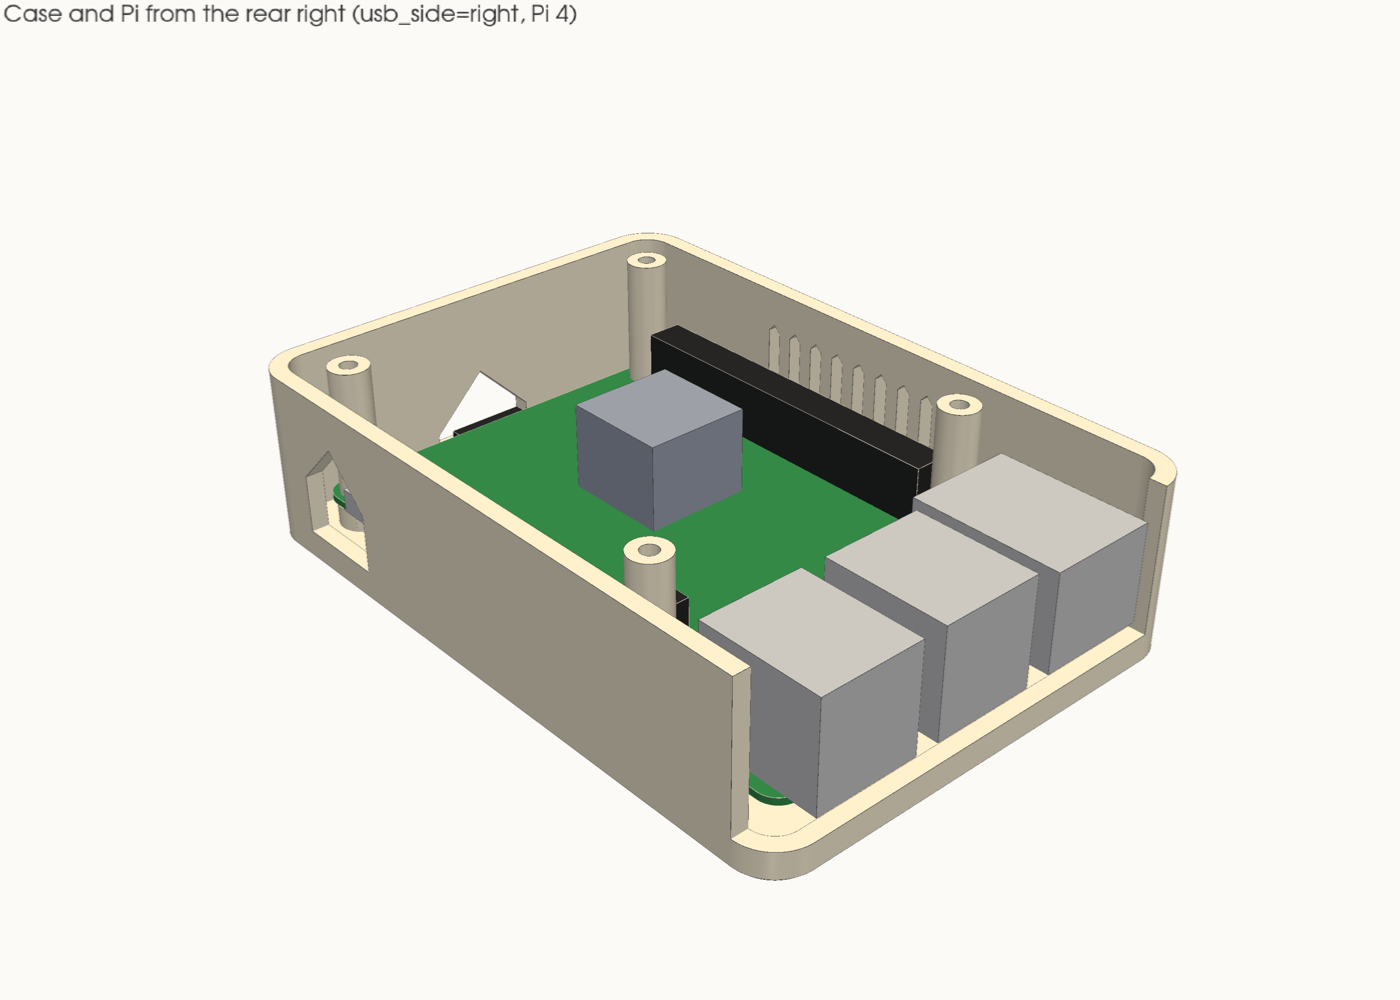
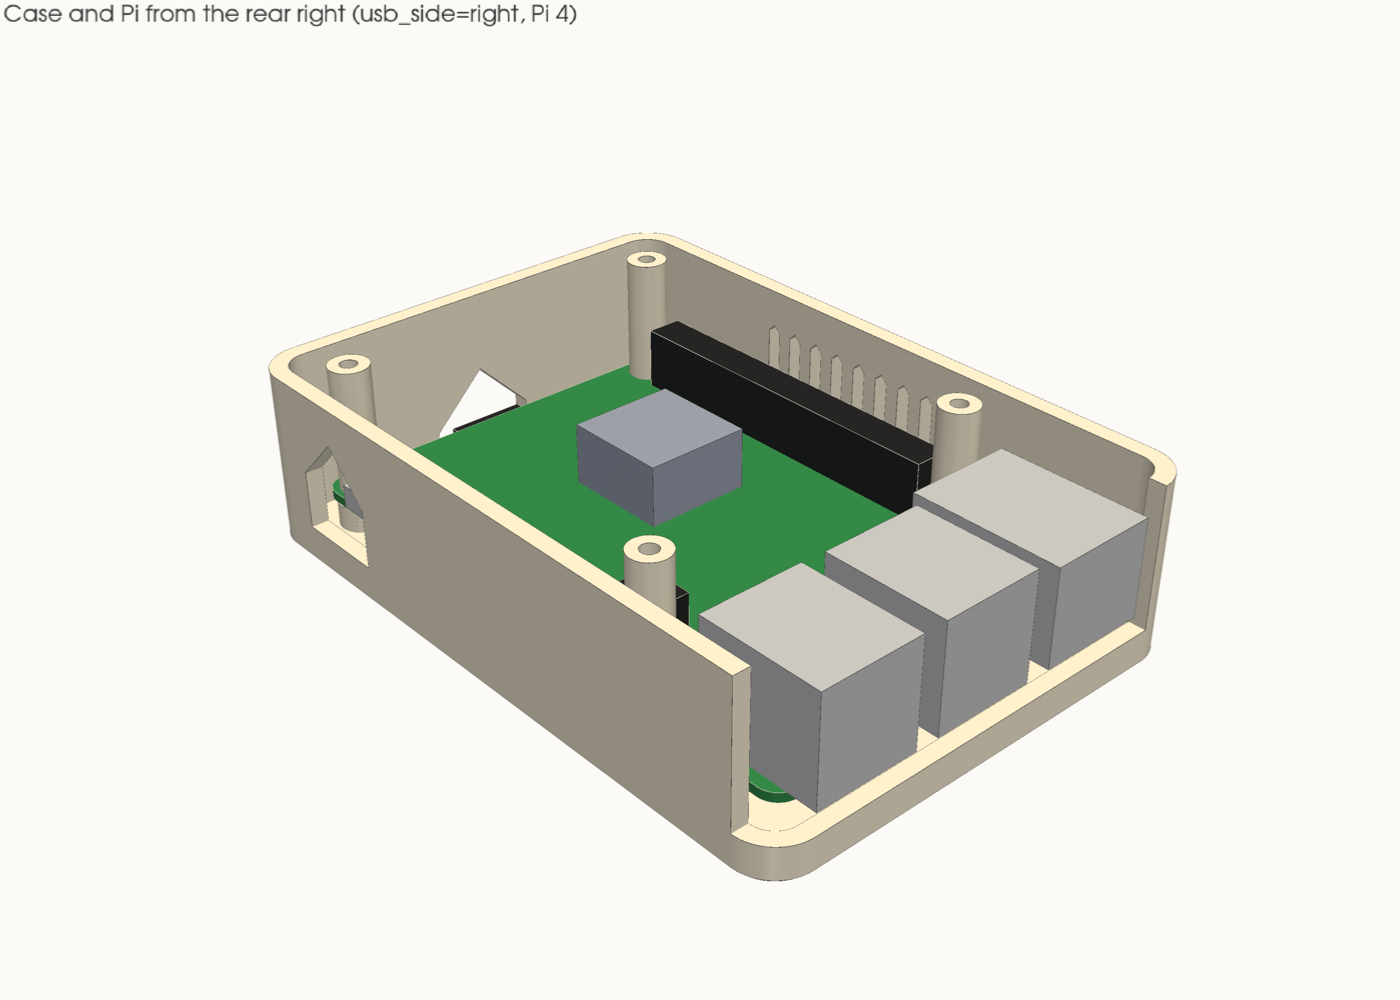
Kit enclosure: board modelled at 1.3 mm across 1.0–1.6; heatsink measured
Gabe read the board as just over 1 mm by eye; Pi 4s are 1.4–1.6. The
model takes 1.3 and the screw-stack checks cover ±0.3, so the exact
figure doesn't matter: the bosses go up to 4.0 mm and the screw reaches
1.0 mm past its nut, which keeps the worst cases inside the nut and the
floor. The heatsink stays below the GPIO pins (8.5 mm), 9 mm under the
lid; the USB-A stack (15 mm) is the tallest part.

diff --git a/kit/enclosure/kit.py b/kit/enclosure/kit.py
@@ -62,7 +62,8 @@ case_end_inset = 0.0   # the case's side face this far in from the Solo's usb_si
 # ── Raspberry Pi board (official Pi 4 mechanical drawing, RP-008343) ────────
 pi_board_l = 85.0
 pi_board_w = 56.0
-pi_board_t = 1.0  # measured 2026-10-07 (Pi 4s are specified 1.4–1.6: worth a second measurement)
+pi_board_t = 1.3  # read by eye as just over 1 mm (2026-10-07); Pi 4s are 1.4–1.6. Modelled mid-range,
+                  # and stack_tol below covers 1.0–1.6
 pi_corner_r = 3.0
 pi_hole_d = 2.7
 pi_hole_pitch_x = 58.0  # along the board's length
@@ -78,7 +79,7 @@ pi_sd_protrude = 3.0  # measured 2026-10-07 (drawing: 2.27)
 
 # Heights above the board's top face
 pi_tallest = 15.0  # measured 2026-10-07: the tallest part above the board (drawing: 16.0)
-pi_heatsink_top = est(12.0, "guess: an under-10 mm heatsink on the 2.4 mm SoC")
+pi_heatsink_top = 8.5  # measured 2026-10-07: the kit's small heatsink stays below the GPIO pins
 pi_underside = 1.5  # deepest part under the board (the SD socket), for the floor check
 
 # Ports, in the board's own frame: x along the length from the SD-card end,
@@ -102,8 +103,8 @@ floor_t = 2.4
 lid_t = 2.4               # a whole number of 0.2 mm layers
 layer_h = 0.2
 lid_seat_gap = 0.3        # at least this between the wall tops and the lid, so the lid clamps on the spacers
-boss_h = 3.5              # the Pi's bosses on the floor (2 mm under the board's deepest part)
-screw_past_nut = 0.8      # how far the screw tip should reach past the nut; sets the spacers' length
+boss_h = 4.0              # the Pi's bosses on the floor (2.5 mm under the board's deepest part)
+screw_past_nut = 1.0      # how far the screw tip should reach past the nut; sets the spacers' length
 spacer_d = 5.5            # their outside diameter (round, so no corner can turn toward the USB-C)
 case_margin_left = 3.0    # beside the GPIO header
 case_margin_front = 0.5   # beyond the SD card's tip
@@ -126,7 +127,7 @@ nut_roof = 1.2            # plastic between the nut and the board: the clamp bea
 pi_boss_d = 6.5
 boss_top_chamfer = 0.5    # keeps the boss's contact face (5.5 mm) inside the Pi's 6 mm mounting pad
 # Tolerances for the screw-stack checks in REPORT.md
-stack_tol = 0.5           # board ±0.15, printed spacer ±0.2, lid ±0.1, worst way round
+stack_tol = 0.6           # board ±0.3 (1.0–1.6), printed spacer ±0.2, lid ±0.1, worst way round
 screw_len_tol = 0.42      # ISO js15 on a 25 mm screw
 screw_tip_chamfer = 0.4   # the last bit of a screw has no full thread
 m2_head_d = 3.8           # an M2 flat head; it sinks (m2_csk_d - m2_head_d)/2 below the lid's top

diff --git a/kit/enclosure/REPORT.md b/kit/enclosure/REPORT.md
@@ -6,8 +6,8 @@ Generated by `kit.py` on 2026-10-07 for **usb_side = right**, **pi_model = 4**. 
 
 - **Clearances:** 39 checked, none under its minimum. The tightest against its minimum is *Pi placeholder → case (less the Pi's own bosses)* at 0.50 mm (needs 0.50).
 - **Printability:** no bridge over 20 mm, and no sloping overhang past 45°, across the case, lid, spacers and fit test.
-- **Unmeasured:** 13 dimensions are still published or guessed. Rows that depend on one say so; see *Measurements still needed*.
-- **Size:** the case is 66.30 × 95.40 mm, 27.30 mm to the lid's top and 29.70 mm to the fader caps. It sits on the Solo's right end on 5.7 mm of Dual Lock; about 84 mm tall all together.
+- **Unmeasured:** 12 dimensions are still published or guessed. Rows that depend on one say so; see *Measurements still needed*.
+- **Size:** the case is 66.30 × 95.40 mm, 27.60 mm to the lid's top and 30.00 mm to the fader caps. It sits on the Solo's right end on 5.7 mm of Dual Lock; about 84 mm tall all together.
 
 ![Isometric](renders/iso.png)
 
@@ -50,21 +50,21 @@ All in mm. A row passes at or above its minimum (0.50 unless it says otherwise).
 |---|---:|---:|---|---|
 | spacer tube → nearest part on the board (USB-C power) | 0.62 | 0.50 | ok (unmeasured) | unmeasured: Pi connector overhangs |
 | spacer tube → nearest wall | 3.25 | 0.50 | ok |  |
-| M2 × 25: full thread in the nut, worst case | 1.08 | 1.00 | ok | nut is 1.6; 1.0 is 2.5 threads, plenty for a lid clamp; nominal tip 0.80 past the nut |
+| M2 × 25: full thread in the nut, worst case | 1.18 | 1.00 | ok | nut is 1.6; 1.0 is 2.5 threads, plenty for a lid clamp; nominal tip 1.00 past the nut |
 | screw tip → bottom of its bore, worst case | 0.50 | 0.50 | ok |  |
-| floor left under the screw bore | 0.68 | 0.60 | ok | 3 layers |
+| floor left under the screw bore | 0.88 | 0.60 | ok | 3 layers |
 | nut slot roof (the clamp bears on it) | 1.20 | 1.00 | ok |  |
 | nut slot side walls | 1.15 | 0.80 | ok |  |
 | magnet pocket roof (inside the case) | 0.60 | 0.40 | ok |  |
-| magnet bump top → the board's underside parts | 0.70 | 0.50 | ok |  |
+| magnet bump top → the board's underside parts | 1.20 | 0.50 | ok |  |
 
 ### The Pi, up and down
 
 | Check | Clearance | Minimum | Status | Note |
 |---|---:|---:|---|---|
-| tallest jack top → lid underside | 3.00 | 0.50 | ok |  |
-| heatsink top → lid underside (spec: 5 mm for airflow) | 6.00 | 5.00 | ok (unmeasured) | unmeasured: pi_heatsink_top |
-| board underside parts → floor | 2.00 | 0.50 | ok |  |
+| tallest jack top → lid underside | 2.50 | 0.50 | ok |  |
+| heatsink top → lid underside (spec: 5 mm for airflow) | 9.00 | 5.00 | ok |  |
+| board underside parts → floor | 2.50 | 0.50 | ok |  |
 
 ### Port faces to openings
 
@@ -81,7 +81,7 @@ All in mm. A row passes at or above its minimum (0.50 unless it says otherwise).
 | lower USB-A plug body → notch floor | 2.70 | 0.50 | ok (unmeasured) | unmeasured: usb_low_port_zc, usb_plug_h |
 | USB-A plug body → notch side (outer stack) | 3.50 | 0.50 | ok (unmeasured) | unmeasured: usb_plug_w |
 | SD card → slot sides | 2.00 | 0.50 | ok (unmeasured) | unmeasured: Pi connector overhangs |
-| SD card → slot bottom | 1.10 | 0.50 | ok |  |
+| SD card → slot bottom | 1.60 | 0.50 | ok |  |
 
 ### On the Solo
 
@@ -89,13 +89,13 @@ All in mm. A row passes at or above its minimum (0.50 unless it says otherwise).
 |---|---:|---:|---|---|
 | case front face → Solo front face (the case mustn't overhang the controls) | 0.60 | 0.00 | ok (unmeasured) | unmeasured: solo_w, solo_d |
 | Dual Lock pads → edge of the Solo's top | 4.00 | 0.00 | ok (unmeasured) | unmeasured: solo_w, solo_d |
-| USB cable slack (cable less plug bodies, less the run between them) | 32.80 | 0.00 | ok (unmeasured) | unmeasured: solo_usb_x, solo_usb_z |
+| USB cable slack (cable less plug bodies, less the run between them) | 32.00 | 0.00 | ok (unmeasured) | unmeasured: solo_usb_x, solo_usb_z |
 
 ### Lid
 
 | Check | Clearance | Minimum | Status | Note |
 |---|---:|---:|---|---|
-| wall tops → lid underside (the lid clamps on the spacers, not the walls) | 0.30 | 0.20 | ok |  |
+| wall tops → lid underside (the lid clamps on the spacers, not the walls) | 0.40 | 0.20 | ok |  |
 | screw countersink → lid edge | 6.30 | 0.50 | ok |  |
 | screw countersink → nearest opening or engraving in the lid (cassette window) | 2.40 | 0.50 | ok |  |
 
@@ -104,7 +104,7 @@ All in mm. A row passes at or above its minimum (0.50 unless it says otherwise).
 | Check | Clearance | Minimum | Status | Note |
 |---|---:|---:|---|---|
 | Pi placeholder → case (less the Pi's own bosses) | 0.50 | 0.50 | ok (unmeasured) | unmeasured: Pi connector overhangs |
-| Pi placeholder → lid | 3.00 | 0.50 | ok |  |
+| Pi placeholder → lid | 2.50 | 0.50 | ok |  |
 | spacers → case (less the Pi's own bosses) | 3.25 | 0.50 | ok |  |
 | Solo body → case (the Dual Lock gap) | 5.70 | 0.50 | ok (unmeasured) | unmeasured: solo_w, solo_d |
 
@@ -114,10 +114,10 @@ Checked on the exported STLs in print orientation. Every downward-facing triangl
 
 | Part | Orientation | Size (mm) | Watertight | Bodies | Ceiling regions | Longest bridge | Overhangs past 45° |
 |---|---|---|---|---:|---:|---:|---|
-| case | floor down | 66.3 × 95.4 × 24.6 | yes | 1 | 12 | 8.12 mm | none |
+| case | floor down | 66.3 × 95.4 × 24.8 | yes | 1 | 12 | 8.12 mm | none |
 | lid | top up (as fitted) | 66.3 × 95.4 × 4.8 | yes | 1 | 4 | 2.40 mm | none |
-| spacers | standing up | 34.0 × 5.5 × 18.0 | yes | 4 | 0 | 0.00 mm | none |
-| fit_test_pi | plate down | 68.5 × 59.5 × 5.9 | yes | 5 | 4 | 4.47 mm | none |
+| spacers | standing up | 34.0 × 5.5 × 17.5 | yes | 4 | 0 | 0.00 mm | none |
+| fit_test_pi | plate down | 68.5 × 59.5 × 6.4 | yes | 5 | 4 | 4.47 mm | none |
 
 **case** ceiling regions (all under 20 mm):
 
@@ -127,10 +127,10 @@ Checked on the exported STLs in print orientation. Every downward-facing triangl
 | 8.08 | 8.2 × 8.2 | 3.10 | 52.8 |
 | 8.07 | 8.2 × 8.2 | 3.10 | 52.8 |
 | 8.07 | 8.2 × 8.2 | 3.10 | 52.8 |
-| 4.47 | 5.7 × 4.2 | 4.70 | 18.5 |
-| 4.47 | 5.7 × 4.2 | 4.70 | 18.5 |
-| 4.40 | 5.7 × 4.2 | 4.70 | 18.5 |
-| 4.40 | 5.7 × 4.2 | 4.70 | 18.5 |
+| 4.47 | 5.7 × 4.2 | 5.20 | 18.5 |
+| 4.47 | 5.7 × 4.2 | 5.20 | 18.5 |
+| 4.40 | 5.7 × 4.2 | 5.20 | 18.5 |
+| 4.40 | 5.7 × 4.2 | 5.20 | 18.5 |
 | 0.81 | 28.0 × 28.0 | 0.40 | 87.0 |
 | 0.81 | 28.0 × 28.0 | 0.40 | 87.0 |
 | 0.81 | 28.0 × 28.0 | 0.40 | 87.0 |
@@ -149,10 +149,10 @@ Checked on the exported STLs in print orientation. Every downward-facing triangl
 
 | Bridge span | Footprint | Height | Area (mm²) |
 |---:|---|---:|---:|
-| 4.47 | 5.7 × 4.2 | 4.70 | 18.5 |
-| 4.47 | 5.7 × 4.2 | 4.70 | 18.5 |
-| 4.40 | 5.7 × 4.2 | 4.70 | 18.5 |
-| 4.40 | 5.7 × 4.2 | 4.70 | 18.5 |
+| 4.47 | 5.7 × 4.2 | 5.20 | 18.5 |
+| 4.47 | 5.7 × 4.2 | 5.20 | 18.5 |
+| 4.40 | 5.7 × 4.2 | 5.20 | 18.5 |
+| 4.40 | 5.7 × 4.2 | 5.20 | 18.5 |
 
 Where they come from: the magnet pockets on the case's underside have 8.20 mm roofs; each nut slot's roof bridges its 4.20 mm width (a little more where the screw bore breaks it); the Dual Lock locating grooves are 0.40 mm-deep channels on the bed face, so their roofs bridge 0.80 mm; on the lid, each fader cap bridges its 2.40 mm slot. Everything else is a wall, a peaked top, the open-topped rear notch, a through-slot, a 45° chamfer, or something standing up from the lid's top face. **No part needs supports.**
 
@@ -179,12 +179,12 @@ Where they come from: the magnet pockets on the case's underside have 8.20 mm ro
    *outside* face, so plugs seat fully and the case stays shallower than the Solo. The notch floor is
    2.50 mm below the board top so the lower plug's body clears it, and the notch runs to the right wall.
 6. **Hardware on hand, not heat-set inserts.** One M2 × 25 screw per corner runs through the lid, a
-   printed 18 mm spacer tube, the Pi's hole and a 1.2 mm plastic roof into an M2 nut slid
+   printed 17.5 mm spacer tube, the Pi's hole and a 1.2 mm plastic roof into an M2 nut slid
    sideways into a slot in the boss. Tightening pulls the nut up against that roof, so lid, spacer, Pi and case all
    clamp together; there's no room for separate lid bosses in a case this tight. To let a 25 mm screw reach right
-   through the nut, the bosses are 3.5 mm, not 5 (the board's deepest underside part still clears the
-   floor by 2 mm), and the lid sits 18 mm above the board. Each boss's top edge is chamfered so it
-   bears only on the Pi's 6 mm mounting pad. The wall tops stop 0.30 mm short of the lid, so the lid clamps on the
+   through the nut, the bosses are 4 mm, not 5 (the board's deepest underside part still clears the
+   floor by 2 mm), and the lid sits 17.5 mm above the board. Each boss's top edge is chamfered so it
+   bears only on the Pi's 6 mm mounting pad. The wall tops stop 0.40 mm short of the lid, so the lid clamps on the
    spacers and can't rock or bow. The lid is 2.4 mm, not 3.0, so its heights fall on 0.2 mm layers.
    Four D8×3 magnets sit in pockets in the floor, one under each Dual Lock square, ready for the clip saddle.
 7. **Vents in the lid and floor** as well as the left wall: the floor slots draw air through the Dual Lock gap, and
@@ -214,7 +214,6 @@ Each is a one-line change in `kit.py`: replace the `est(...)` with the measured 
 | `solo_usb_x` | 118 | guess: rear USB-C centre from the left end, seen from the front |
 | `solo_usb_z` | 23 | guess: rear USB-C centre above the bottom of the body |
 | `pi_hdmi_overhang` | 1.43 | drawing: micro-HDMI body starts at Y -1.43 |
-| `pi_heatsink_top` | 12 | guess: an under-10 mm heatsink on the 2.4 mm SoC |
 | `pwr_plug_w` | 11 | guess: official 15 W supply's USB-C plug body width |
 | `pwr_plug_h` | 6.5 | guess: its height |
 | `usb_plug_w` | 16 | guess: a USB-A plug body's width, for the notch edges |
@@ -228,7 +227,7 @@ Each is a one-line change in `kit.py`: replace the `est(...)` with the measured 
 | 4 | M2 × 25 mm countersunk (flat-head) screw | Lid, spacer, Pi and case, down into the nut | A pan head works with an M2 washer under it; without one it bears on the countersink's edge |
 | 4 | M2 nut (4 mm across the flats) | Slid sideways into the slot in each boss | The slot stops it turning; the screw pulls it up against the boss's roof |
 | 4 | Any short M2 screw (6–10 mm) | The fit test, optional | Or use the 25 mm ones with the spacers and the fit test's lid rings |
-| 4 | Printed spacer tube, 5.5 mm × 18 mm (`out/spacers.stl`) | Between the board and the lid | Round, so nothing turns toward the USB-C |
+| 4 | Printed spacer tube, 5.5 mm × 17.5 mm (`out/spacers.stl`) | Between the board and the lid | Round, so nothing turns toward the USB-C |
 | 4 | D8×3 mm magnet | Floor pockets, for the clip saddle later | All four with the same pole facing down; a drop of glue |
 | 4 | 3M Dual Lock square, 1" (25.4 mm), SJ3550 or SJ3560 | Case to the Solo's top, until the saddle | Sticks straight over the magnets |
 | 1 | USB-A to USB-C cable, 15–20 cm, a right-angle A end if you can | Pi to Solo | Out of the rear notch and straight down to the Solo's rear USB-C |

diff --git a/kit/enclosure/PRINTING.md b/kit/enclosure/PRINTING.md
@@ -31,10 +31,10 @@ drawing (2.5 mm). If the real barrel stands proud by more than 3 mm, the Pi won'
   edge.
 - `pi_usb_overhang`: how far the USB-A and Ethernet jacks stick out past the short edge.
 - `pi_sd_protrude`: how far an inserted SD card sticks out past the other short edge.
-- `pi_tallest`: the USB-A stack's top above the board's top face (the lid sits 18 mm above the board).
+- `pi_tallest`: the USB-A stack's top above the board's top face (the lid sits about 17.5 mm above the board).
 - `pi_heatsink_top`: the heatsink's top above the board's top face, once it's stuck on.
-- `pi_board_t`: the board's thickness. It goes into the screw stack, so the screws' reach through the nuts depends
-  on it.
+- `pi_board_t`: the board's thickness. It's modelled at 1.3 mm and the screw stack is checked across 1.0–1.6, so a
+  rough reading is enough.
 
 Each is a one-line change, then `make`.
 
